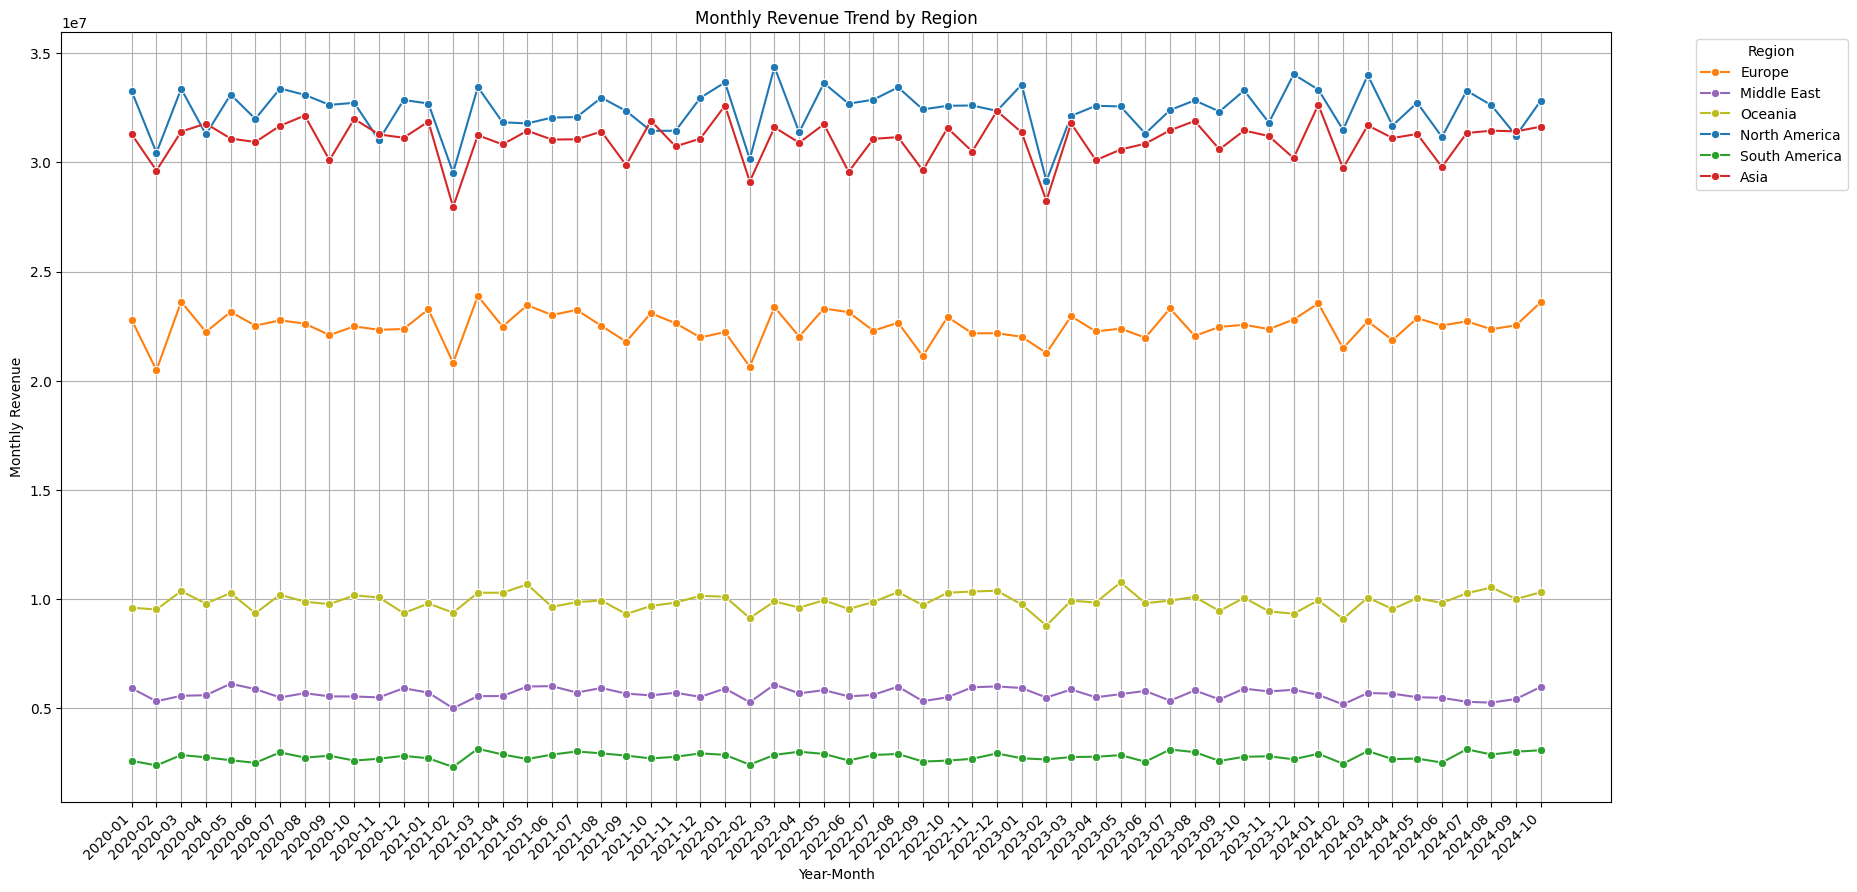
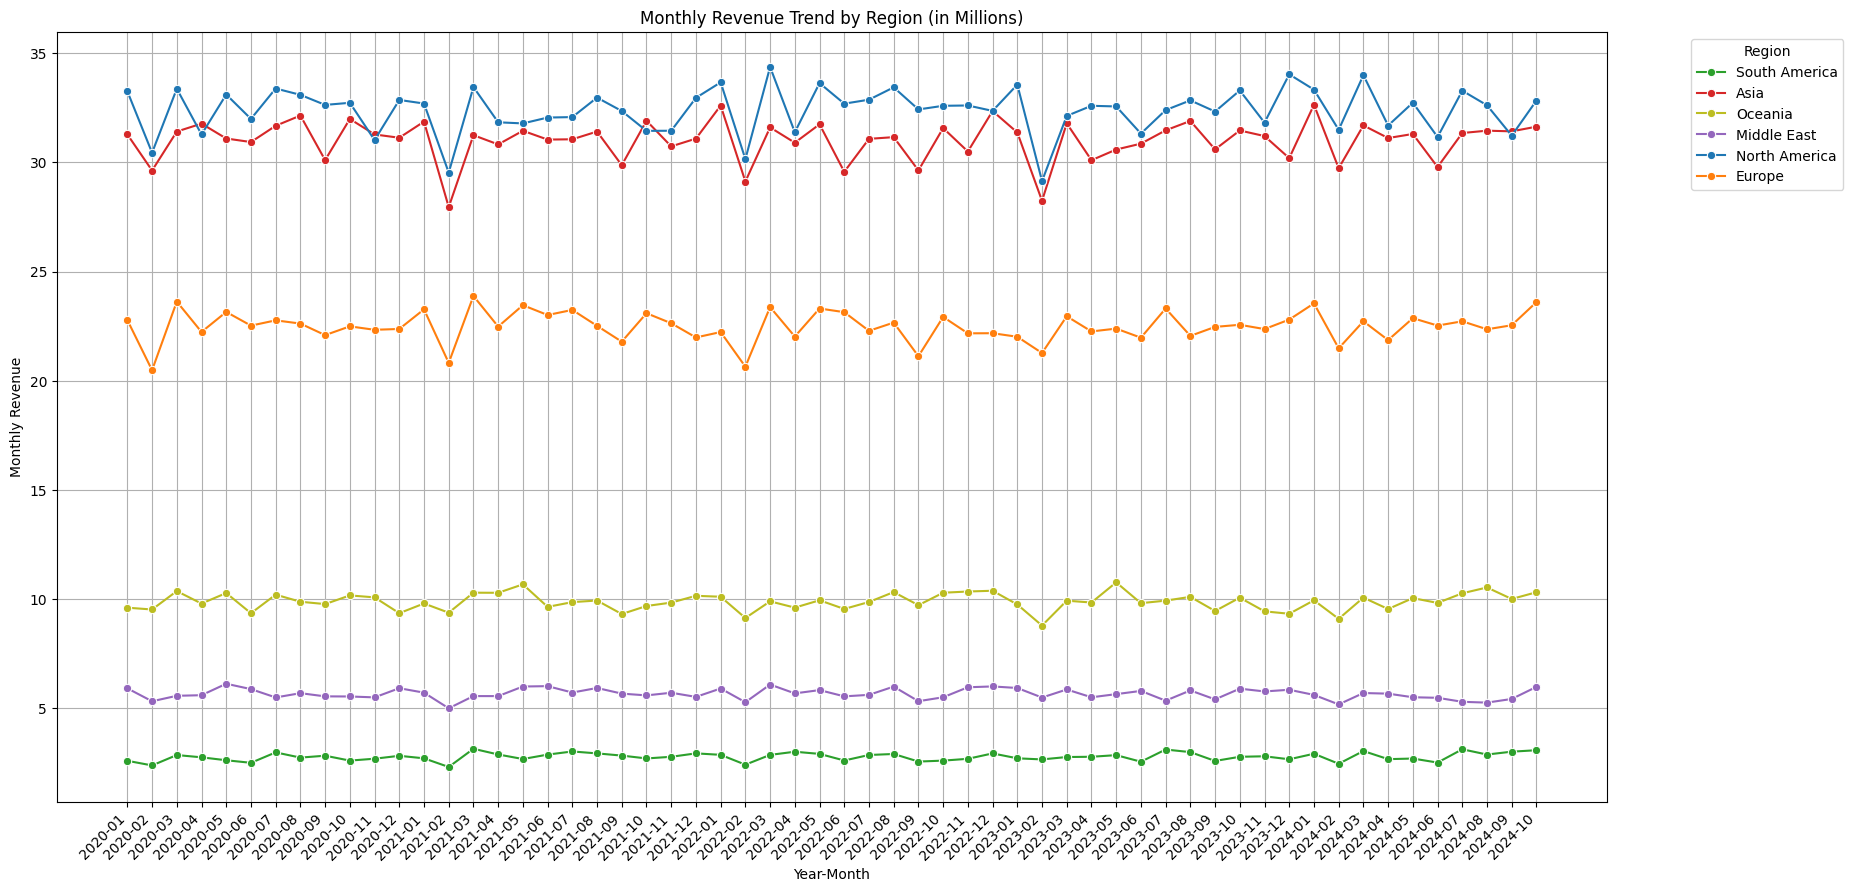
Minor tweaks

Changed region(s): [[0.0308, 0.0, 0.8305, 0.9989], [0.9228, 0.0605, 1.0, 0.2119]]

diff --git a/Notebooks/eda_visualizations.py b/Notebooks/eda_visualizations.py
@@ -71,15 +71,15 @@ consistent_region_palette = {
 
 """
 
-Key Question (1):
+Key Question 1:
 Which products generate the highest revenue, and how consistent is this 
 performance across regions?
 
-Key Question (2):
+Key Question 2:
 Which stores and countries contribute the most to overall revenue, and 
 how do their monthly trends compare?
 
-Key Question (3):
+Key Question 3:
 Which product categories show strong growth or decline over time?
 
 """
@@ -157,7 +157,8 @@ INSIGHT:
 This visualization shows that there are no clear bands along category 
 lines, and that product revenue generally decreases at a steady rate. 
 No large jumps downwards in revenue indicates that there is no large gap
-in any product(s) perceived quality by customers.
+in any product(s) perceived quality by customers (i.e. no extreme 'Heavy
+Hitters' driving the vast bulk of the company's revenue).
 
 """
 
@@ -192,7 +193,7 @@ for region in Regions:
 DESCRIPTION:
 This code produces 6 visualizations, each showing the same graph
 but filtered by region. This directly answers the second part of 
-Key Question (1), with regards to consistency of top revenue earners
+Key Question 1, with regards to consistency of top revenue earners
 across regions. 
 
 INSIGHT:
@@ -216,11 +217,11 @@ def plot_top_country_monthly_revenue(top_country_data):
     sns.lineplot(
         data = top_country_data,
         x = 'Year_Month',
-        y = 'Monthly_Revenue',
+        y = 'Monthly_Revenue_Millions',
         hue = 'Country',
         marker = 'o'
     )
-    plt.title(f'Monthly Revenue Trend for Top {limit} Countries')
+    plt.title(f'Monthly Revenue Trend for Top {limit} Countries (in Millions)')
     plt.xlabel('Year-Month')
     plt.ylabel('Monthly Revenue')
     plt.xticks(rotation=45, ha='right')
@@ -234,7 +235,7 @@ plot_top_country_monthly_revenue(top_country_data)
 """
 
 DESCRIPTION:
-This code generates a visualization that directly answers Key Question (2).
+This code generates a visualization that directly answers Key Question 2.
 By showing monthly revenue of the top countries, this gives a clear 
 picture of the trends of the top revenue generating countries.
 
@@ -258,13 +259,13 @@ def plot_top_store_monthly_revenue(top_store_data):
     sns.lineplot(
         data = top_store_data,
         x = 'Year_Month',
-        y = 'Monthly_Revenue',
+        y = 'Monthly_Revenue_Millions',
         hue = 'Region',
         palette = consistent_region_palette,
         marker = 'o',
         errorbar = None
     )
-    plt.title(f'Monthly Revenue Trend for Top {limit} Stores')
+    plt.title(f'Monthly Revenue Trend for Top {limit} Stores (in Millions)')
     plt.xlabel('Year-Month')
     plt.ylabel('Monthly Revenue')
     plt.xticks(rotation=45, ha='right')
@@ -278,7 +279,7 @@ plot_top_store_monthly_revenue(top_store_data)
 """
 
 DESCRIPTION:
-This code generates a visualization that directly answers Key Question (2).
+This code generates a visualization that directly answers Key Question 2.
 By showing monthly revenue of the top stores, this gives a clear 
 picture of the trends of the top revenue generating stores.
 
@@ -303,13 +304,13 @@ def plot_regions_monthly_revenue(regions_data):
     sns.lineplot(
         data = regions_data,
         x = 'Year_Month',
-        y = 'Monthly_Revenue',
+        y = 'Monthly_Revenue_Millions',
         hue = 'Region',
         palette = consistent_region_palette,
         marker = 'o',
         errorbar = None
     )
-    plt.title(f'Monthly Revenue Trend by Region')
+    plt.title(f'Monthly Revenue Trend by Region (in Millions)')
     plt.xlabel('Year-Month')
     plt.ylabel('Monthly Revenue')
     plt.xticks(rotation=45, ha='right')
@@ -325,7 +326,7 @@ plot_regions_monthly_revenue(regions_data)
 DESCRIPTION:
 This code generates a visualization that shows the Regions ranked by 
 monthly revenue, helping give more a more well rounded answer to
-Key Question (2). By showing the regions themselves, this helps give
+Key Question 2. By showing the regions themselves, this helps give
 more context about the overall trends of our top stores.
 
 INSIGHT:
@@ -380,14 +381,14 @@ plot_category_revenue_by_year(category_revenue)
 DESCRIPTION:
 This code generates a visualization that shows Revenue by Category type.
 This aims to help provide groundwork to get a well rounded answer to
-Key Question (3), by giving a baseline of what global revenue looks like
+Key Question 3, by giving a baseline of what global revenue looks like
 when broken up by Category.
 
 INSIGHT:
 This shows that the actual hardware makes up the vast bulk of the revenue 
-for the company. Coupled with findings from Key Question (1), we get more reason
+for the company. Coupled with findings from Key Question 1, we get more reason
 to focus efforts to expanding more efforts to boost revenue from subscription services.
-Key Question (1) revealed that globally, subscription services are very popular, but
+Key Question 1 revealed that globally, subscription services are very popular, but
 they don't make up very much of the overall revenue percentage. This indicates that they
 are undersaturated in the market at the moment, despite their popularity.
 
@@ -423,7 +424,7 @@ plot_category_monthly_revenue(category_data)
 
 DESCRIPTION:
 This code generates a visualization to show Monthly Revenue by Category type,
-helping to directly answer Key Question (3), by giving an idea of trends for product
+helping to directly answer Key Question 3, by giving an idea of trends for product
 categories over time.
 
 INSIGHT:
@@ -445,14 +446,14 @@ more customers into the entire Apple ecosystem.
 
 """
 
-Key Question (4):
+Key Question 4:
 Which stores and regions have the highest warranty claim counts or rates?
 
-Key Question (5):
+Key Question 5:
 Which products experience the highest claim rates, and how does this 
 relate to their sales volume?
 
-Key Question (6):
+Key Question 6:
 Are there specific product-store combinations that show unusually 
 high claim activity?
 
@@ -486,7 +487,7 @@ plot_claims_rate_by_country(claims_rate_country)
 
 DESCRIPTION:
 This code generates a visualization that directly helps to answer
-Key Question (4) by showing a graph of the claims rate for every country
+Key Question 4 by showing a graph of the claims rate for every country
 we have data for, color coded by region to help see if regional trends
 are present.
 
@@ -529,7 +530,7 @@ plot_claims_rate_by_store(claims_rate_store)
 
 DESCRIPTION:
 This code generates a visualizations that directly helps to answer 
-Key Question (4) by showing the exact claims rate for the stores. 
+Key Question 4 by showing the exact claims rate for the stores. 
 
 INSIGHT:
 Even when going for a fairly large scope (n = 100) of stores, we see 
@@ -797,7 +798,7 @@ to warrant any belief besides regularly expected noise in data.
 
 """
 
-Key Question (7):
+Key Question 7:
 Is there a relationship between a store's revenue and its 
 warranty claim rate, and which stores manage to generate strong
 revenue while maintaining low warranty claims?

diff --git a/Scripts/eda_queries.py b/Scripts/eda_queries.py
@@ -29,7 +29,7 @@ def load_products_revenue(limit: int, sort_order: str):
     if not isinstance(limit, int) or limit < 1:
         raise ValueError("Limit must be a positive integer.")
     
-    # Validate structural inputs (cannot be parameterized)
+    # Validate inputs (cannot be parameterized)
     valid_orders = ['ASC', 'DESC']
     normalized_order = sort_order.upper().strip()
     if normalized_order not in valid_orders:
@@ -67,7 +67,7 @@ def load_products_revenue_region(limit: int, sort_order: str, region: str):
     if not isinstance(limit, int) or limit < 1:
         raise ValueError("Limit must be a positive integer.")
     
-    # Validate structural inputs (cannot be parameterized)
+    # Validate inputs (cannot be parameterized)
     valid_orders = ['ASC', 'DESC']
     normalized_order = sort_order.upper().strip()
     if normalized_order not in valid_orders:
@@ -111,7 +111,7 @@ def load_country_monthly_revenue(limit:int, sort_order: str):
     if not isinstance(limit, int) or limit < 1:
         raise ValueError("Limit must be a positive integer.")
     
-    # Validate structural inputs (cannot be parameterized)
+    # Validate inputs (cannot be parameterized)
     valid_orders = ['ASC', 'DESC']
     normalized_order = sort_order.upper().strip()
     if normalized_order not in valid_orders:
@@ -137,7 +137,7 @@ def load_country_monthly_revenue(limit:int, sort_order: str):
         )
         SELECT
             ct.Country,
-            SUM(s.quantity * p.Price) AS Monthly_Revenue,
+            SUM(s.quantity * p.Price) / 1000000 AS Monthly_Revenue_Millions,
             strftime(strptime(s.sale_date, '%d-%m-%Y'), '%Y-%m') AS Year_Month
         FROM
             sales s
@@ -163,7 +163,7 @@ def load_stores_monthly_revenue(limit:int, sort_order: str):
     if not isinstance(limit, int) or limit < 1:
         raise ValueError("Limit must be a positive integer.")
     
-    # Validate structural inputs (cannot be parameterized)
+    # Validate inputs (cannot be parameterized)
     valid_orders = ['ASC', 'DESC']
     normalized_order = sort_order.upper().strip()
     if normalized_order not in valid_orders:
@@ -195,7 +195,7 @@ def load_stores_monthly_revenue(limit:int, sort_order: str):
             stt.Store_ID,
             stt.Store_Name,
             stt.Region,
-            SUM(s.quantity * p.Price) AS Monthly_Revenue,
+            SUM(s.quantity * p.Price) / 1000000 AS Monthly_Revenue_Millions,
             strftime(strptime(s.sale_date, '%d-%m-%Y'), '%Y-%m') AS Year_Month
         FROM
             sales s
@@ -219,7 +219,7 @@ def load_stores_monthly_revenue(limit:int, sort_order: str):
 #%%
 # (2.c) Regions by Monthly Revenue
 def load_regions_monthly_revenue(sort_order: str):
-    # Validate structural inputs (cannot be parameterized)
+    # Validate inputs (cannot be parameterized)
     valid_orders = ['ASC', 'DESC']
     normalized_order = sort_order.upper().strip()
     if normalized_order not in valid_orders:
@@ -244,7 +244,7 @@ def load_regions_monthly_revenue(sort_order: str):
         )
         SELECT
             rt.Region,
-            SUM(s.quantity * p.Price) AS Monthly_Revenue,
+            SUM(s.quantity * p.Price) / 1000000 AS Monthly_Revenue_Millions,
             strftime(strptime(s.sale_date, '%d-%m-%Y'), '%Y-%m') AS Year_Month
         FROM
             sales s
@@ -281,7 +281,7 @@ SQL.
 """ 
 
 def load_category_revenue_by_year(sort_order: str):
-    # Validate structural inputs (cannot be parameterized)
+    # Validate inputs (cannot be parameterized)
     valid_orders = ['ASC', 'DESC']
     normalized_order = sort_order.upper().strip()
     if normalized_order not in valid_orders:
@@ -341,7 +341,7 @@ def load_category_revenue_by_year(sort_order: str):
 #%%
 # (3.b) Category by Monthly Revenue
 def load_category_monthly_revenue(sort_order: str):
-    # Validate structural inputs (cannot be parameterized)
+    # Validate inputs (cannot be parameterized)
     valid_orders = ['ASC', 'DESC']
     normalized_order = sort_order.upper().strip()
     if normalized_order not in valid_orders:
@@ -405,7 +405,7 @@ def load_claims_rate_country(limit: int, sort_order: str):
     if not isinstance(limit, int) or limit < 1:
         raise ValueError("Limit must be a positive integer.")
     
-    # Validate structural inputs (cannot be parameterized)
+    # Validate inputs (cannot be parameterized)
     valid_orders = ['ASC', 'DESC']
     normalized_order = sort_order.upper().strip()
     if normalized_order not in valid_orders:
@@ -446,7 +446,7 @@ def load_claims_rate_store(limit: int, sort_order: str):
     if not isinstance(limit, int) or limit < 1:
         raise ValueError("Limit must be a positive integer.")
     
-    # Validate structural inputs (cannot be parameterized)
+    # Validate inputs (cannot be parameterized)
     valid_orders = ['ASC', 'DESC']
     normalized_order = sort_order.upper().strip()
     if normalized_order not in valid_orders:
@@ -487,7 +487,7 @@ def load_claims_rate_product(limit: int, sort_order: str):
     if not isinstance(limit, int) or limit < 1:
         raise ValueError("Limit must be a positive integer.")
     
-    # Validate structural inputs (cannot be parameterized)
+    # Validate inputs (cannot be parameterized)
     valid_orders = ['ASC', 'DESC']
     normalized_order = sort_order.upper().strip()
     if normalized_order not in valid_orders:
@@ -581,7 +581,7 @@ def load_claims_rate_vs_units():
 #%%
 #  (6.a) Claims Rate by Product and Store
 def load_claims_rate_products_store(sort_order: str = 'ASC'):
-    # Validate structural inputs (cannot be parameterized)
+    # Validate inputs (cannot be parameterized)
     valid_orders = ['ASC', 'DESC']
     normalized_order = sort_order.upper().strip()
     if normalized_order not in valid_orders:
@@ -686,7 +686,7 @@ def load_claims_vs_revenue_by_store(limit: int, sort_order: str):
     if not isinstance(limit, int) or limit < 1:
         raise ValueError("Limit must be a positive integer.")
     
-    # Validate structural inputs (cannot be parameterized)
+    # Validate inputs (cannot be parameterized)
     valid_orders = ['ASC', 'DESC']
     normalized_order = sort_order.upper().strip()
     if normalized_order not in valid_orders:
